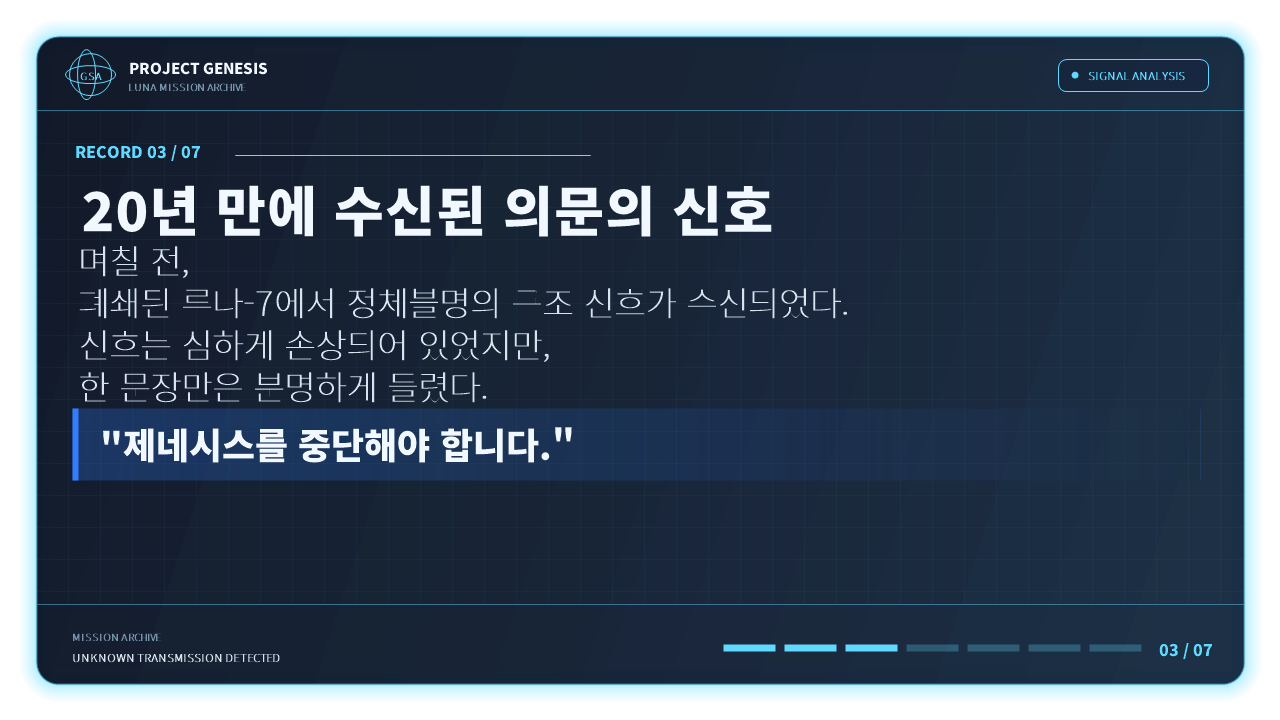
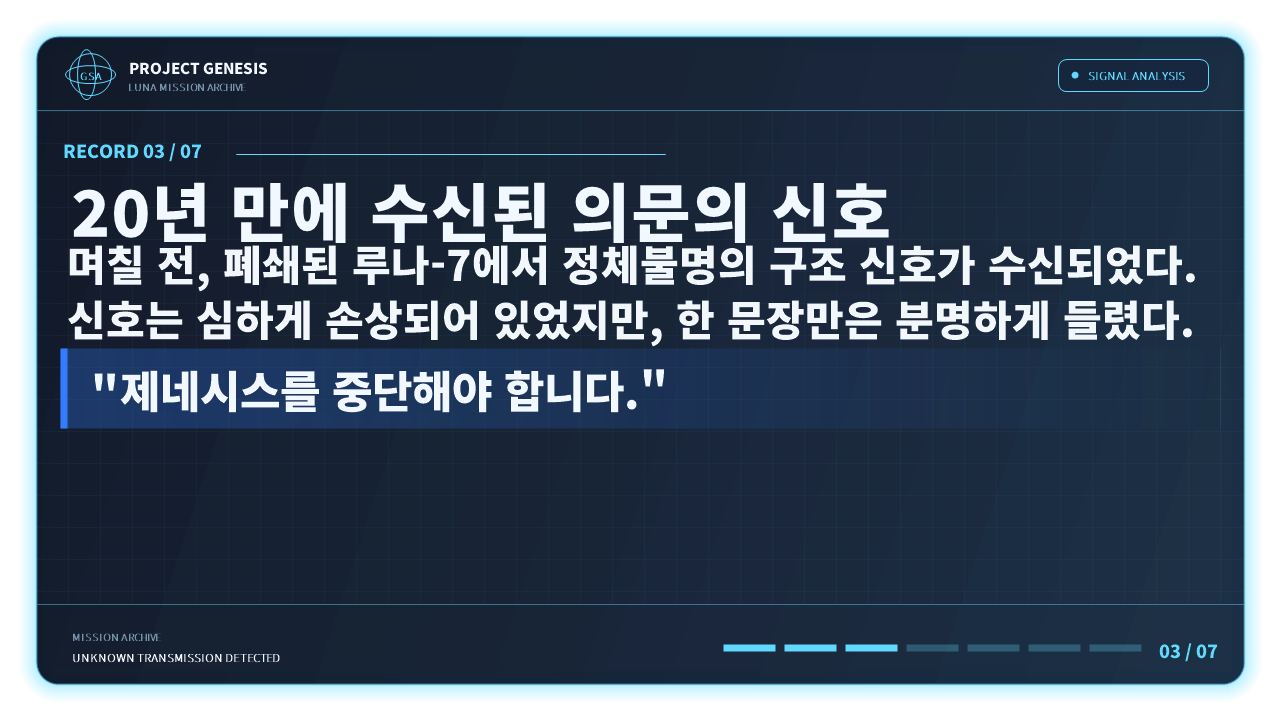
feat: improve Genesis panel readability

Changed region(s): [[0.0312, 0.1833, 0.9375, 0.6722], [0.9062, 0.8861, 0.9688, 0.9167]]

diff --git a/apps/zep-studio/story-panel-renderer.css b/apps/zep-studio/story-panel-renderer.css
@@ -2,6 +2,6 @@
 :root{--accent:#62d9ff;--accent2:#347cff;--alert:#ff7b55;--glow:rgba(77,195,255,.32);--panel:rgba(3,12,28,.93);--panel2:rgba(7,24,47,.9);--line:rgba(102,217,255,.34);--text:#f2f8ff;--muted:#9cb5c9}
 *{box-sizing:border-box}html,body{width:1280px;height:720px;margin:0;overflow:hidden;background:transparent;font-family:Pretendard,Arial,sans-serif}body{padding:36px}.story-panel{position:relative;width:1208px;height:648px;overflow:hidden;border:1px solid var(--line);border-radius:22px;background:linear-gradient(135deg,var(--panel),rgba(4,17,37,.87) 62%,var(--panel2));color:var(--text);box-shadow:0 0 0 1px rgba(147,224,255,.06) inset,0 22px 70px rgba(0,0,0,.32),0 0 42px var(--glow);isolation:isolate}.story-panel::before{content:'';position:absolute;inset:0;z-index:-2;background:linear-gradient(rgba(117,208,255,.028) 1px,transparent 1px),linear-gradient(90deg,rgba(117,208,255,.028) 1px,transparent 1px);background-size:32px 32px;mask-image:linear-gradient(90deg,#000,transparent 78%)}.story-panel::after{content:'';position:absolute;width:520px;height:520px;right:-150px;top:-210px;z-index:-1;border:1px solid rgba(105,218,255,.12);border-radius:50%;box-shadow:0 0 90px var(--glow)}.tone-red{--accent:#ff7567;--accent2:#ff334e;--alert:#ffb264;--glow:rgba(255,55,70,.28);--line:rgba(255,100,103,.38);--panel:rgba(24,4,13,.94);--panel2:rgba(40,5,16,.89)}.tone-amber{--accent:#64d8ff;--accent2:#ff9b43;--alert:#ffad52;--glow:rgba(255,143,54,.22)}.tone-mixed{--accent:#65dfff;--accent2:#ff5e55;--alert:#ff7761;--glow:rgba(80,166,255,.26)}.tone-bright{--accent:#d8f8ff;--accent2:#67caff;--alert:#fff;--glow:rgba(156,234,255,.46);--panel:rgba(4,20,40,.88);--panel2:rgba(14,62,89,.84);--line:rgba(202,246,255,.62)}
 .panel-header{height:74px;display:flex;align-items:center;justify-content:space-between;padding:0 34px;border-bottom:1px solid var(--line);background:rgba(3,10,22,.34)}.agency{display:flex;align-items:center;gap:14px}.agency-mark{position:relative;display:grid;place-items:center;width:42px;height:42px;border:1px solid var(--accent);border-radius:50%;color:var(--accent);font-size:9px;font-weight:900;letter-spacing:.08em;box-shadow:0 0 20px var(--glow)}.agency-mark::before,.agency-mark::after{content:'';position:absolute;width:50px;height:18px;border:1px solid var(--accent);border-radius:50%;opacity:.48;transform:rotate(28deg)}.agency-mark::after{transform:rotate(-28deg)}.agency b,.agency small{display:block}.agency b{font-size:14px;letter-spacing:.12em}.agency small{margin-top:3px;color:#6e90aa;font-size:9px;letter-spacing:.16em}.system-status{display:flex;align-items:center;gap:9px;padding:8px 12px;border:1px solid var(--line);border-radius:8px;background:rgba(4,15,29,.72);color:var(--accent);font-size:10px;font-weight:800;letter-spacing:.12em}.system-status i{width:7px;height:7px;border-radius:50%;background:var(--accent2);box-shadow:0 0 12px var(--accent2);animation:pulse 1.6s infinite}@keyframes pulse{50%{opacity:.38}}
-.panel-main{display:block;height:494px;padding:23px 36px 16px}.copy{min-width:0;width:100%}.record-row{display:flex;align-items:center;gap:16px;color:var(--accent);font-size:16px;font-weight:850;letter-spacing:.15em}.record-row::after{content:'';height:1px;max-width:360px;flex:1;background:linear-gradient(90deg,var(--accent),transparent);opacity:.6}.copy h1{margin:9px 0 11px;font-size:54px;line-height:1.04;letter-spacing:-.045em}.body-copy{display:flex;width:100%;flex-direction:column;gap:0}.body-copy span{display:block;color:#d6e3ee;font-size:34px;font-weight:600;line-height:1.24;letter-spacing:-.03em;word-break:keep-all}.highlight{display:flex;align-items:flex-start;min-height:72px;flex-direction:column;justify-content:center;margin-top:9px;padding:9px 20px;border-left:6px solid var(--accent2);background:linear-gradient(90deg,rgba(48,136,205,.22),transparent 90%);color:#fff;font-size:36px;font-weight:820;line-height:1.2;word-break:keep-all;text-shadow:0 0 18px var(--glow)}.highlight span{display:block}.story-panel.tone-red::before{background:repeating-linear-gradient(0deg,rgba(255,55,70,.035) 0,rgba(255,55,70,.035) 2px,transparent 2px,transparent 7px)}.tone-red .highlight{background:linear-gradient(90deg,rgba(255,35,65,.24),transparent)}.tone-mixed .highlight{background:linear-gradient(90deg,rgba(255,65,55,.22),rgba(45,132,210,.08),transparent)}.tone-bright .highlight{font-size:44px;letter-spacing:.11em;background:linear-gradient(90deg,rgba(132,225,255,.25),transparent)}
+.panel-main{display:block;height:494px;padding:18px 24px 12px}.copy{min-width:0;width:100%}.record-row{display:flex;align-items:center;gap:16px;color:var(--accent);font-size:18px;font-weight:900;letter-spacing:.13em}.record-row::after{content:'';height:2px;max-width:430px;flex:1;background:linear-gradient(90deg,var(--accent),transparent);opacity:.72}.copy h1{margin:6px 0 6px;font-size:64px;font-weight:900;line-height:1.02;letter-spacing:-.055em}.body-copy{width:100%}.body-copy p{max-width:1180px;margin:0;color:#f5f9fd;font-size:var(--body-size,42px);font-weight:850;line-height:1.32;letter-spacing:-.04em;word-break:keep-all;text-shadow:0 1px 0 rgba(255,255,255,.1),0 0 9px rgba(125,202,255,.07)}.highlight{display:flex;align-items:flex-start;min-height:80px;flex-direction:column;justify-content:center;margin-top:8px;padding:8px 22px;border-left:7px solid var(--accent2);background:linear-gradient(90deg,rgba(48,136,205,.27),transparent 96%);color:#fff;font-size:44px;font-weight:900;line-height:1.2;word-break:keep-all;text-shadow:0 0 14px var(--glow)}.highlight span{display:block}.story-panel.tone-red::before{background:repeating-linear-gradient(0deg,rgba(255,55,70,.035) 0,rgba(255,55,70,.035) 2px,transparent 2px,transparent 7px)}.tone-red .highlight{background:linear-gradient(90deg,rgba(255,35,65,.29),transparent)}.tone-mixed .highlight{background:linear-gradient(90deg,rgba(255,65,55,.27),rgba(45,132,210,.1),transparent)}.tone-bright .highlight{font-size:52px;letter-spacing:.09em;background:linear-gradient(90deg,rgba(132,225,255,.3),transparent)}
 .visual{position:relative;display:grid;place-items:center;min-width:0;border:1px solid rgba(108,204,255,.14);border-radius:15px;background:radial-gradient(circle at 50% 45%,rgba(65,162,220,.13),rgba(1,8,19,.3) 62%)}.visual::before,.visual::after{content:'';position:absolute;border:1px solid var(--line);border-radius:50%;opacity:.32}.visual::before{width:260px;height:260px}.visual::after{width:210px;height:210px}.visual svg{position:relative;z-index:1;width:286px;height:286px;filter:drop-shadow(0 0 16px var(--glow))}.visual .stroke{fill:none;stroke:var(--accent);stroke-width:4;stroke-linecap:round;stroke-linejoin:round}.visual .thin{fill:none;stroke:var(--accent);stroke-width:2;opacity:.58}.visual .fill{fill:var(--accent);opacity:.13}.visual .hot{fill:var(--accent2);stroke:var(--alert);stroke-width:2}.visual .soft{fill:var(--accent);opacity:.55}.visual-label{position:absolute;right:13px;bottom:11px;color:#517995;font-size:8px;font-weight:800;letter-spacing:.16em}
 .panel-footer{height:80px;display:grid;grid-template-columns:1fr auto;align-items:center;gap:24px;padding:0 34px;border-top:1px solid var(--line);background:rgba(2,9,20,.38)}.meta small,.meta b{display:block}.meta small{color:#557890;font-size:8px;font-weight:800;letter-spacing:.18em}.meta b{margin-top:5px;color:#9fb7c8;font-size:10px;letter-spacing:.08em}.progress{display:flex;align-items:center;gap:7px}.progress span{width:54px;height:7px;border:1px solid rgba(106,199,245,.2);border-radius:99px;background:rgba(15,47,70,.62)}.progress span.done{border-color:var(--accent);background:linear-gradient(90deg,var(--accent2),var(--accent));box-shadow:0 0 10px var(--glow)}.step-label{margin-left:8px;color:var(--accent);font-size:12px;font-weight:900;letter-spacing:.12em}

diff --git a/apps/zep-studio/story-panel-renderer.js b/apps/zep-studio/story-panel-renderer.js
@@ -15,10 +15,11 @@
   };
 
   const lines = values => values.map(line => `<span>${line}</span>`).join('');
+  const bodySizes = { 1: 41, 2: 40, 3: 42, 4: 42, 5: 42, 6: 42, 7: 39 };
   document.documentElement.style.setProperty('color-scheme', 'dark');
-  document.body.innerHTML = `<main class="story-panel tone-${panel.tone}">
+  document.body.innerHTML = `<main class="story-panel tone-${panel.tone}" style="--body-size:${bodySizes[panel.step] || 42}px">
     <header class="panel-header"><div class="agency"><span class="agency-mark">GSA</span><span><b>PROJECT GENESIS</b><small>LUNA MISSION ARCHIVE</small></span></div><span class="system-status"><i></i>${panel.header}</span></header>
-    <section class="panel-main"><div class="copy"><div class="record-row">${panel.subheader}</div><h1>${panel.title}</h1><div class="body-copy">${lines(panel.body)}</div><div class="highlight">${lines(panel.highlight)}</div></div></section>
+    <section class="panel-main"><div class="copy"><div class="record-row">${panel.subheader}</div><h1>${panel.title}</h1><div class="body-copy"><p>${panel.body.join(' ')}</p></div><div class="highlight">${lines(panel.highlight)}</div></div></section>
     <footer class="panel-footer"><div class="meta"><small>MISSION ARCHIVE</small><b>${panel.footer}</b></div><div class="progress">${Array.from({ length: 7 }, (_, index) => `<span class="${index < panel.step ? 'done' : ''}"></span>`).join('')}<b class="step-label">${String(panel.step).padStart(2, '0')} / 07</b></div></footer>
   </main>`;
   document.fonts.ready.then(() => { document.documentElement.dataset.ready = 'true'; });
